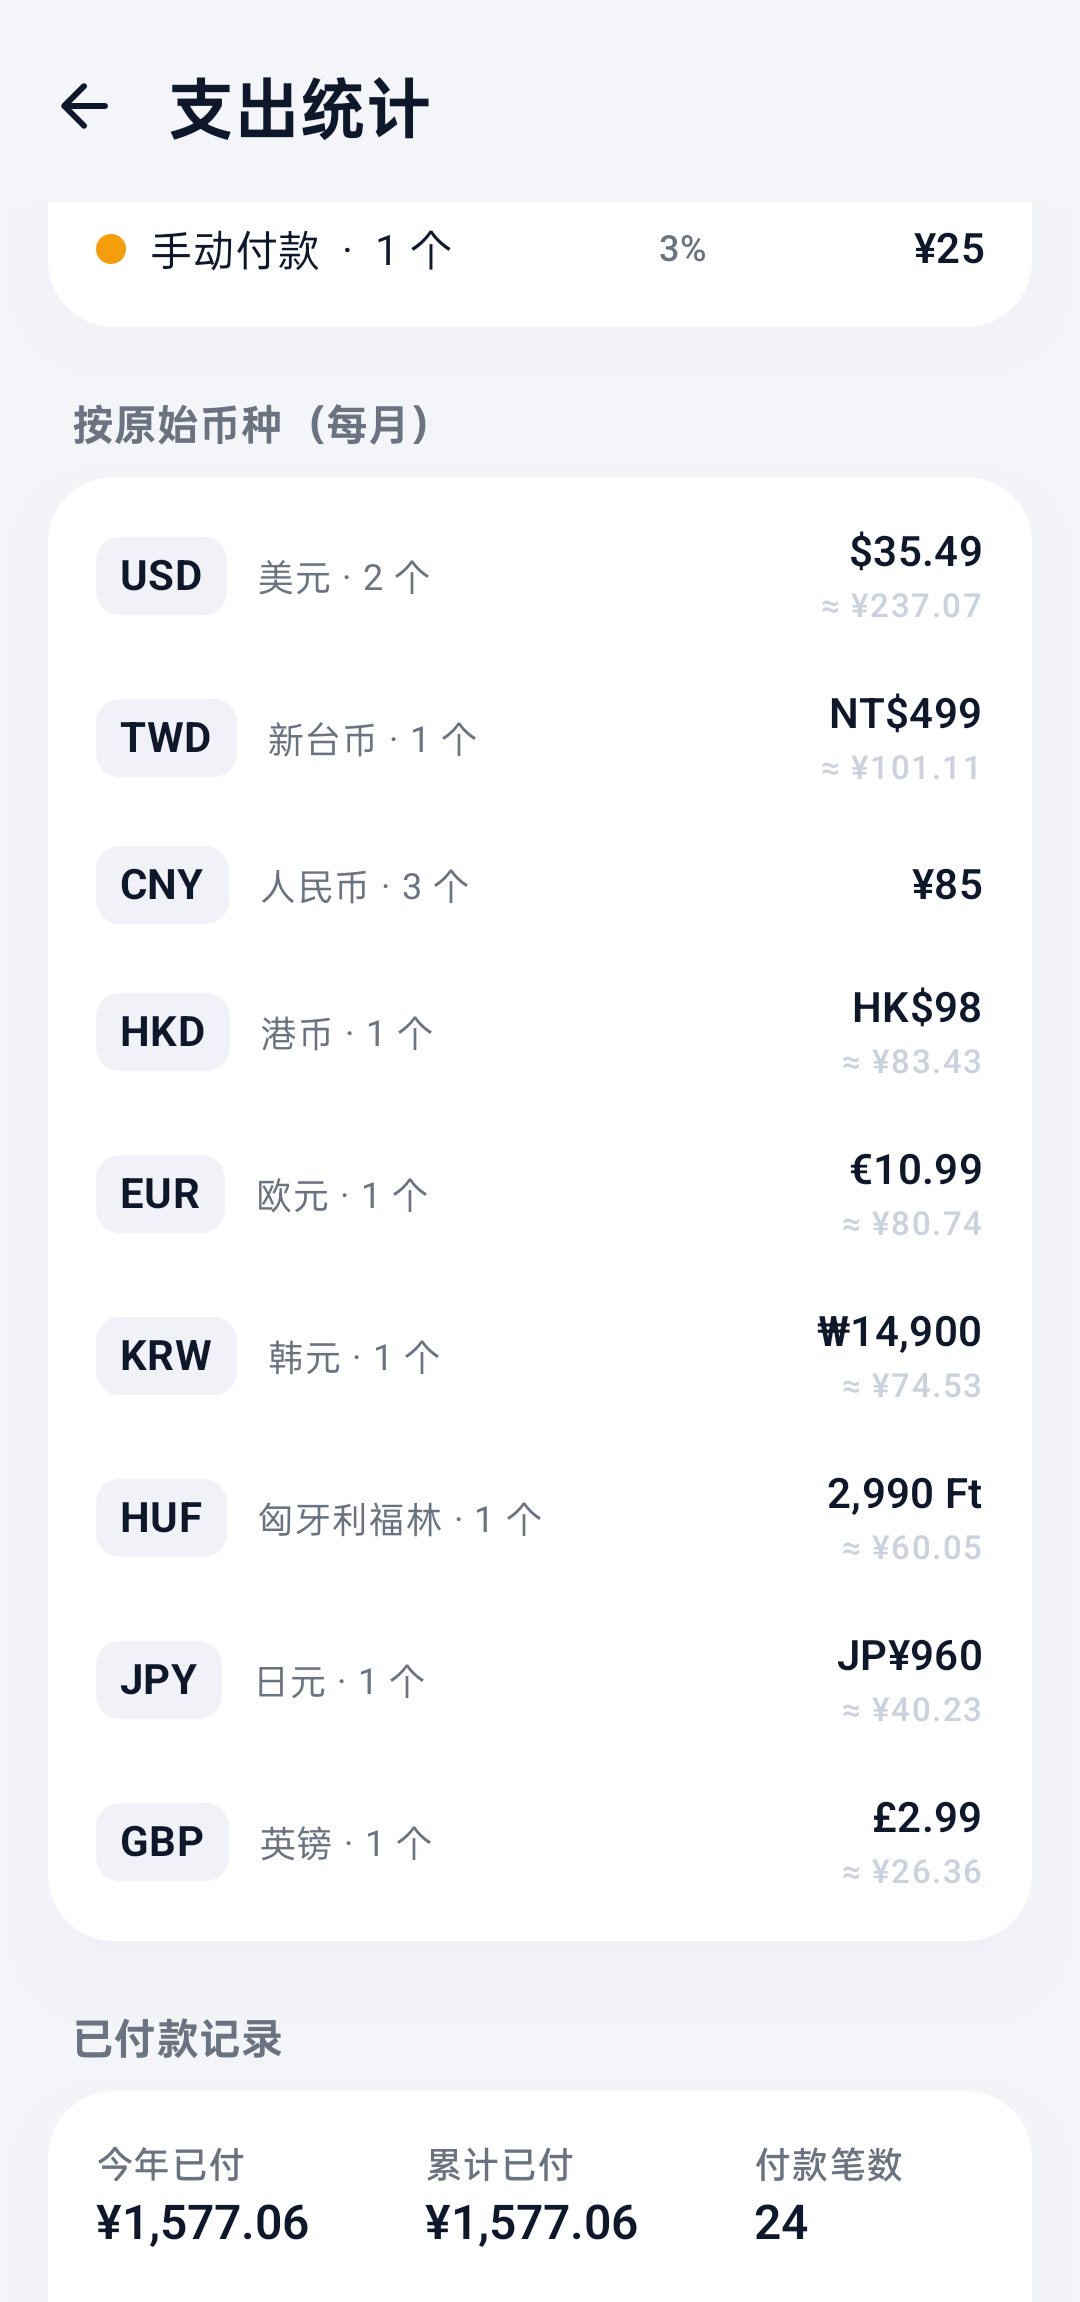
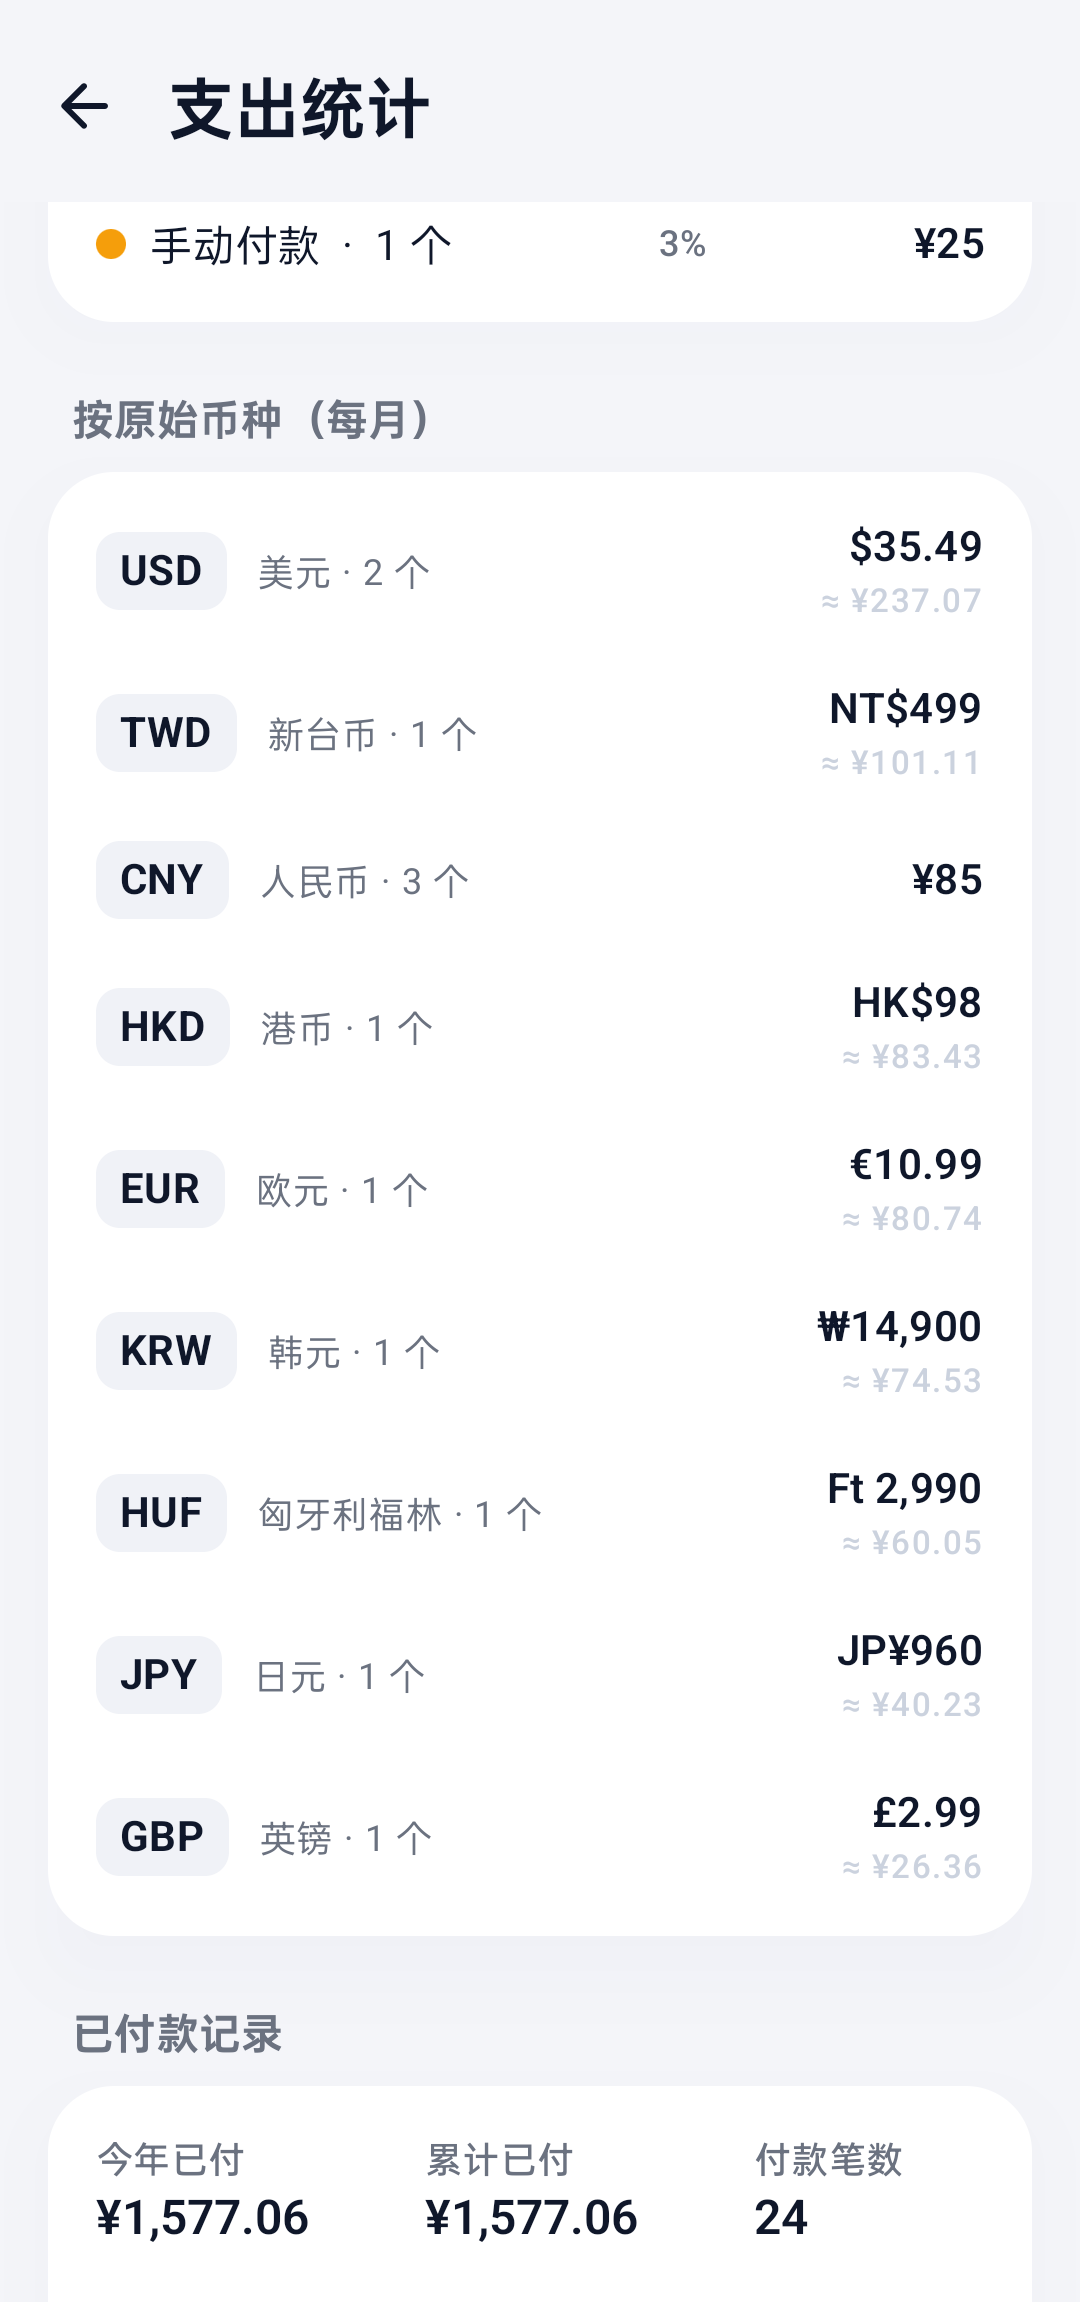
README 截图去掉迪士尼；福林符号改为写在前面
- 演示数据里的 Disney+ 换成 HBO Max（同为福林 2,990），重新截取全部 8 张截图
- 福林金额和 CHF、RM 等一样把符号写在前面：Ft 2,990
- 小组件选择器预览图同步更新

diff --git a/Subnook/app/src/main/java/com/subnook/app/data/Currencies.kt b/Subnook/app/src/main/java/com/subnook/app/data/Currencies.kt
@@ -44,9 +44,6 @@ object Currencies {
     /** 0 位小数的币种 */
     private val noDecimals = setOf("JPY", "KRW", "VND", "IDR", "HUF")
 
-    /** 符号写在数字后面的币种，例如 "2,990 Ft" */
-    private val suffixSymbol = setOf("HUF")
-
     fun format(amount: Double, code: String): String = formatWith(symbol(code), amount, code)
 
     private fun formatWith(symbol: String, amount: Double, code: String): String {
@@ -55,8 +52,7 @@ object Currencies {
         val whole = cents % 100 == 0L
         val digits = if (code in noDecimals || whole) 0 else 2
         val sym = symbol.trim()
-        if (code in suffixSymbol) return "%,.${digits}f".format(amount) + " " + sym
-        // 以字母结尾的符号（CHF、RM、Rp）和数字之间留个空格
+        // 以字母结尾的符号（CHF、RM、Rp、Ft）和数字之间留个空格
         val sep = if (sym.lastOrNull()?.isLetter() == true) " " else ""
         return sym + sep + "%,.${digits}f".format(amount)
     }

diff --git a/Subnook/app/src/test/java/com/subnook/app/CurrencyFormatTest.kt b/Subnook/app/src/test/java/com/subnook/app/CurrencyFormatTest.kt
@@ -24,8 +24,8 @@ class CurrencyFormatTest {
         assertEquals("¥0", Currencies.format(0.0, "CNY"))
     }
 
-    @Test fun forintSuffix() {
-        assertEquals("2,990 Ft", Currencies.format(2990.0, "HUF"))
-        assertEquals("2,990 Ft", Currencies.formatList(2990.4, "HUF"))
+    @Test fun forintLikeOtherLetterSymbols() {
+        assertEquals("Ft 2,990", Currencies.format(2990.0, "HUF"))
+        assertEquals("Ft 2,990", Currencies.formatList(2990.4, "HUF"))
     }
 }

diff --git a/CHANGELOG.md b/CHANGELOG.md
@@ -2,6 +2,10 @@
 
 版本号规则：`主版本.功能.修复`。新增功能升第二位，只修 bug 升第三位；每次发版 `versionCode` 加 1。
 
+## 未发布
+
+- 福林金额改为和其他货币一样把符号写在前面：`Ft 2,990`（同 CHF、RM 等）
+
 ## 1.2.0
 
 - 统计页顶部紫色卡片可直接切换显示币种；金额不再带 CN¥ / US$ 前缀，只有「按原始币种」一栏显示 USD、CNY 等代码
